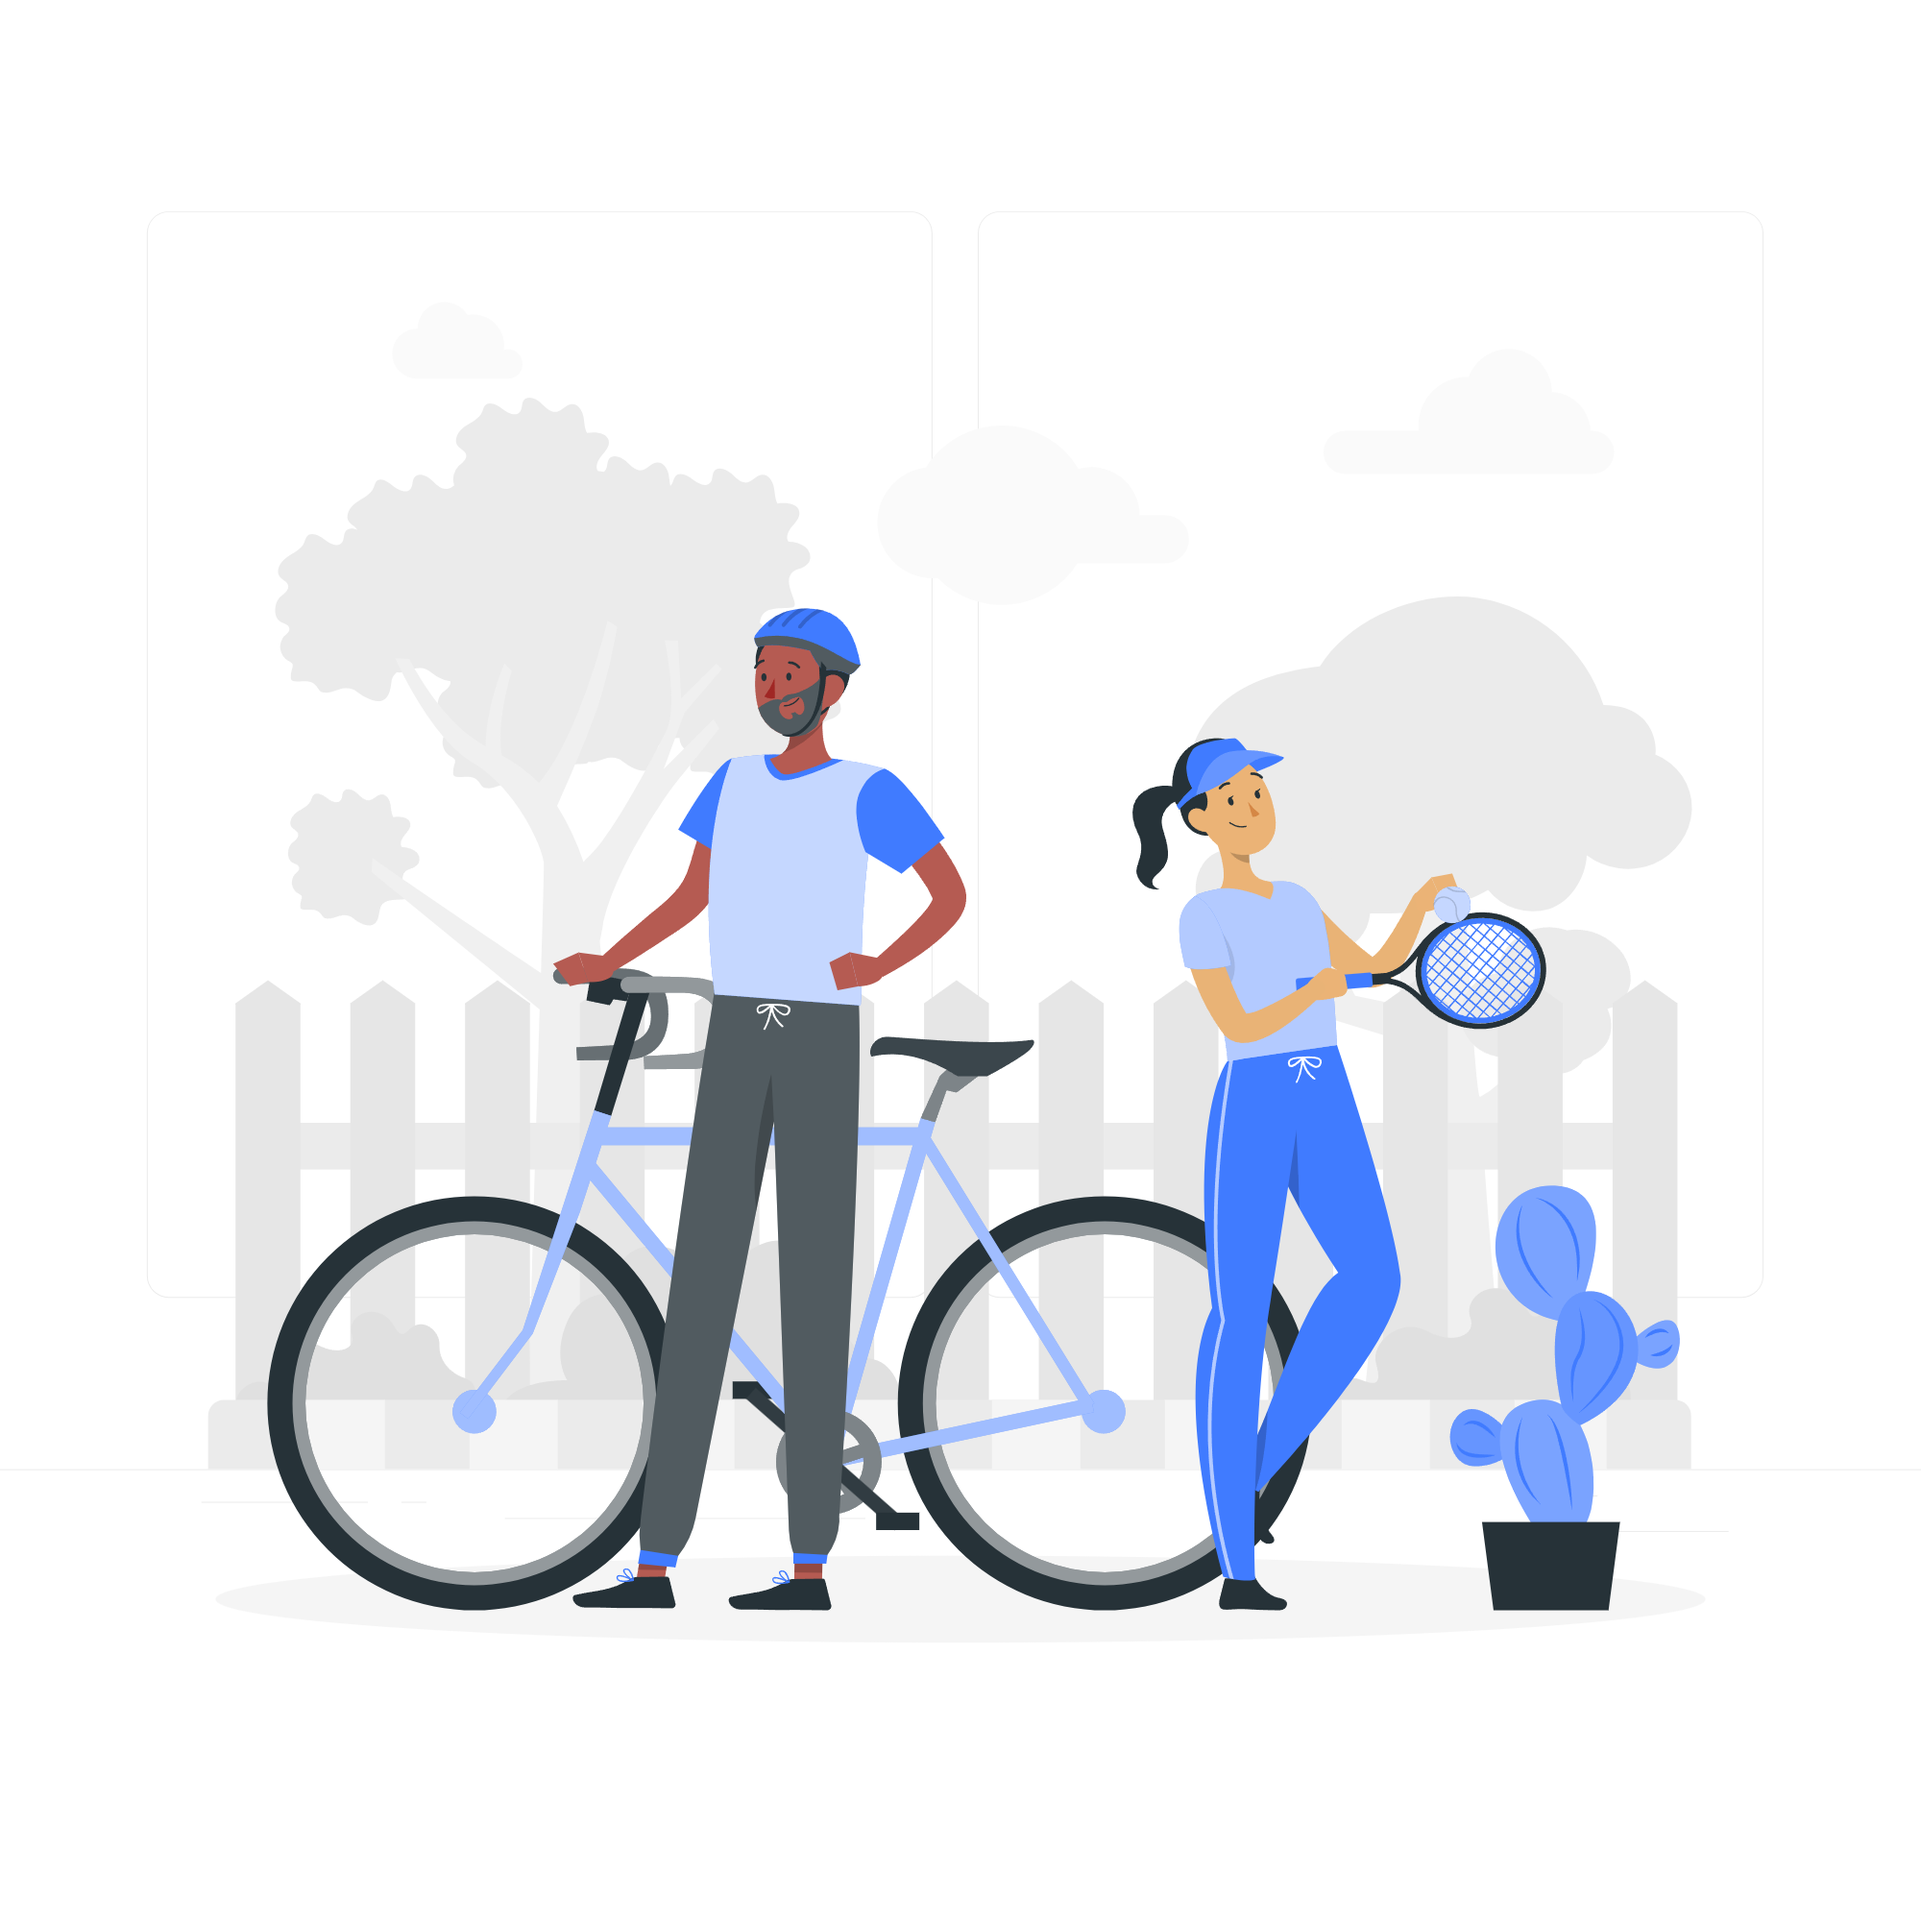
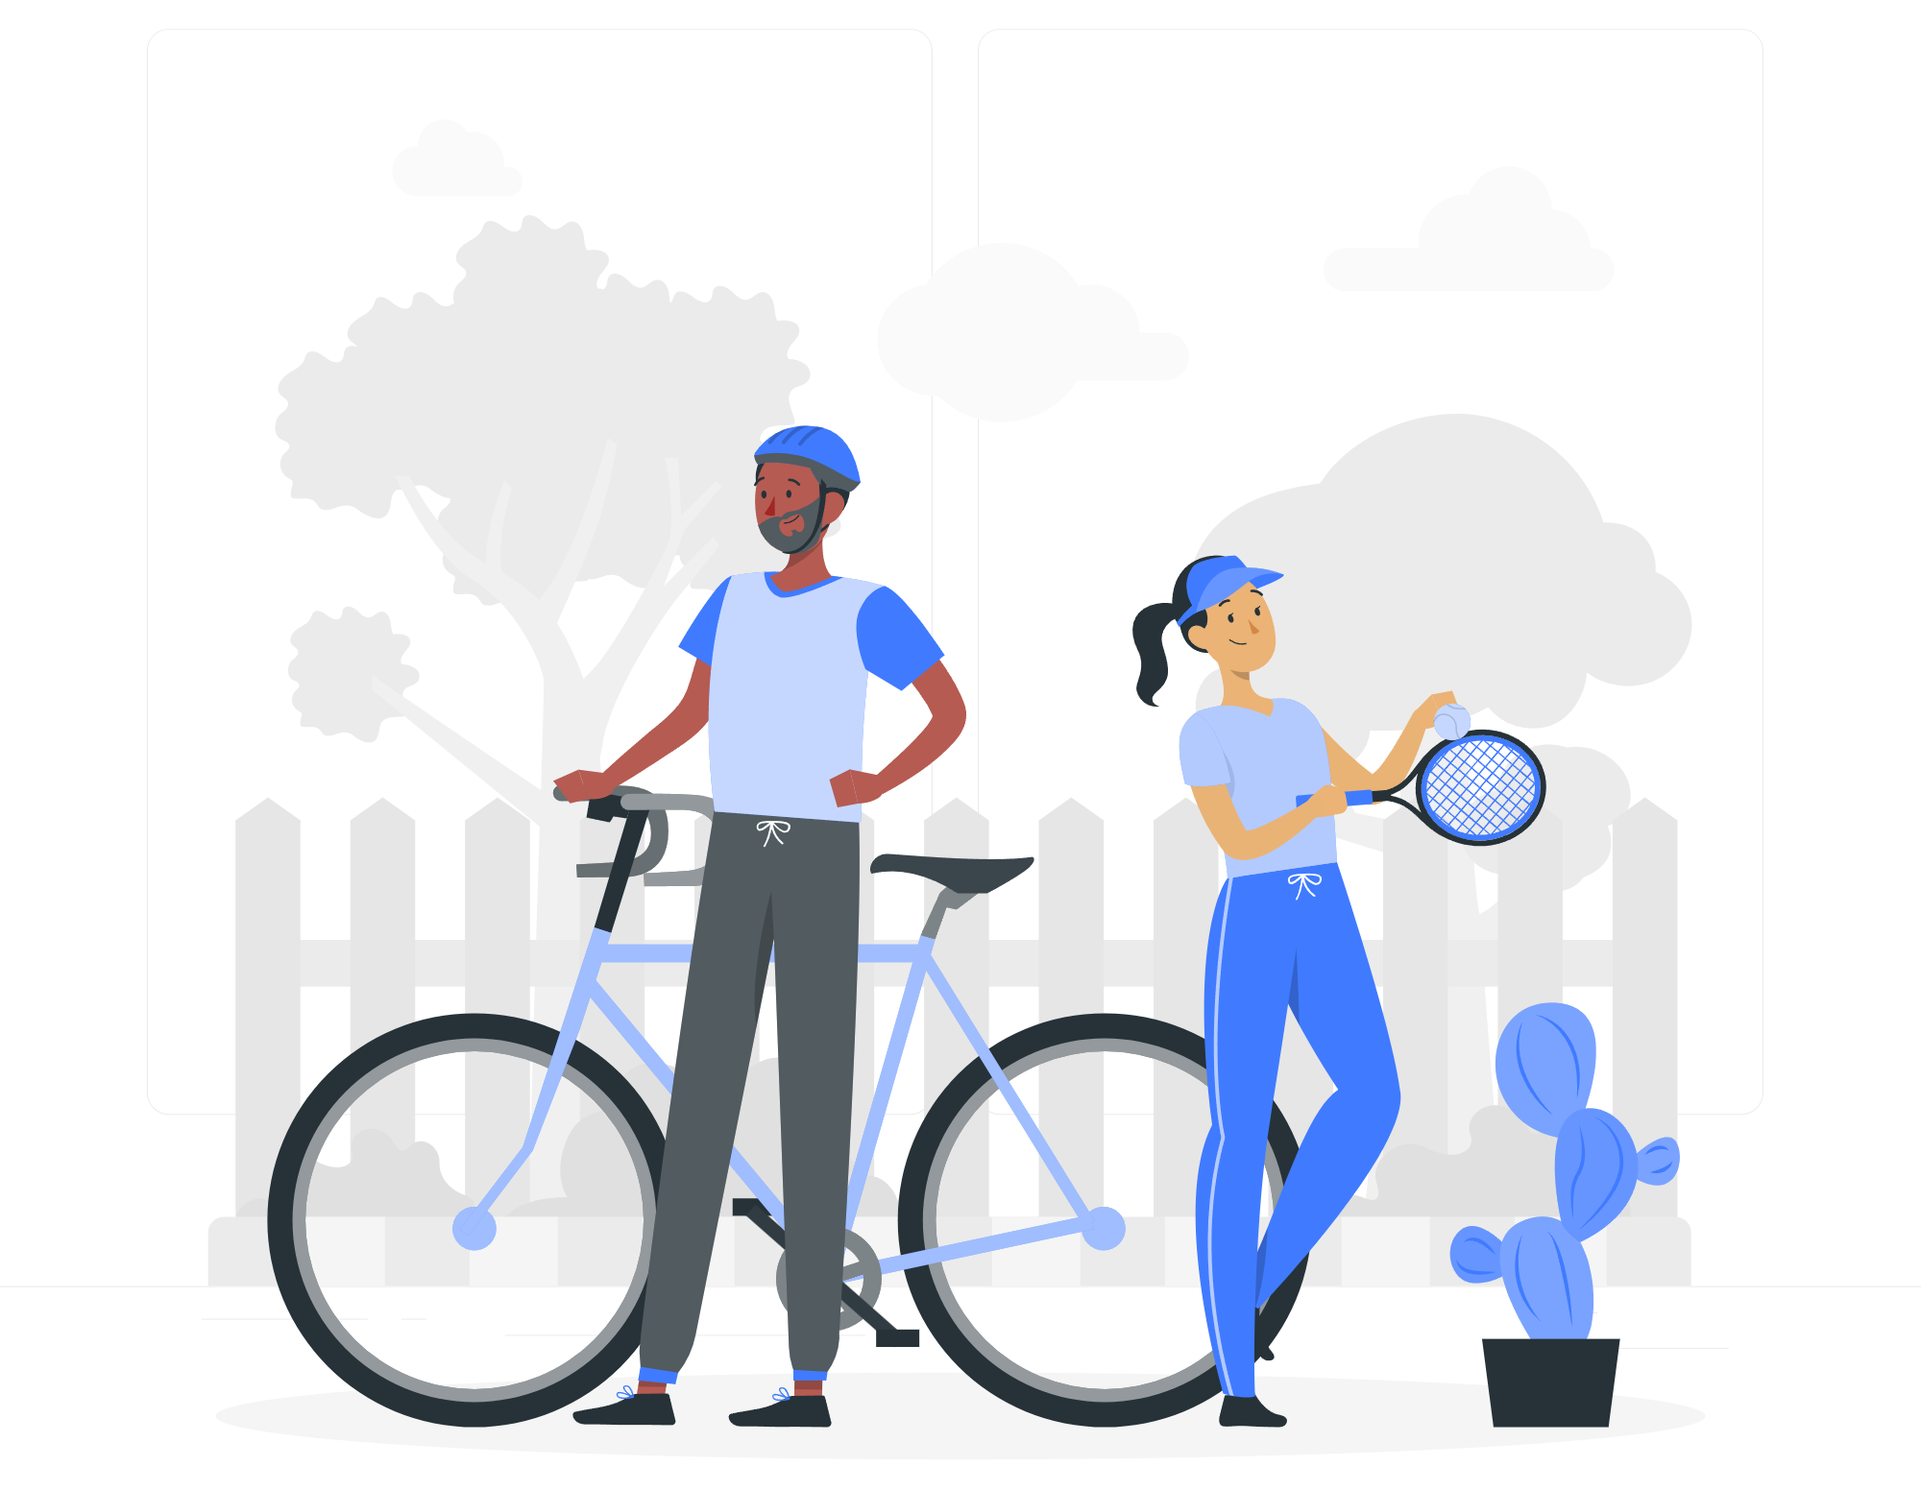
home ok

Changed region(s): [[0.124, 0.3711, 0.899, 0.9588], [0.372, 0.2784, 0.465, 0.4021], [0.837, 0.4948, 0.899, 0.5567]]

diff --git a/src/components/home/ExplanatoryBanner.jsx b/src/components/home/ExplanatoryBanner.jsx
@@ -7,53 +7,58 @@ const ExplanatoryBanner = () => {
   const [isUsageOpen, setIsUsageOpen] = useState(false);
 
   return (
-    <div className="flex flex-col md:flex-row justify-between items-center p-4">
-      {/* Image responsive */}
-      <img src={banner} alt="activity" className="w-full md:w-1/2 mb-4 md:mb-0" />
+    <div className='py-5'>
+      <h2 className="text-center font-bold text-2xl">Avec Keella, tout les monde y gagne !</h2>
+      <div className="flex flex-col md:flex-row justify-between items-center max-w-screen-lg mx-auto pb-4'">
+        {/* Image responsive */}
+        <img src={banner} alt="activity" className="w-full md:w-1/2" />
 
-      {/* Cartes responsives */}
-      <div className="w-full md:w-1/2 space-y-4">
-        {/* Carte pour les sportifs */}
-        <div className="border rounded-lg p-4">
-          <button
-            className="font-bold text-lg"
-            onClick={() => setIsEquipmentOpen(!isEquipmentOpen)}
-          >
-            Pour les sportifs
-          </button>
-          {isEquipmentOpen && (
-            <div>
-              <p className="mt-2">
-                En tant que sportif, profitez de la flexibilité de louer l'équipement sportif dont vous avez besoin, 
-                où que vous soyez. Parfait pour essayer de nouveaux sports ou pour des séances de sport lors de vos voyages.
-              </p>
-              <Link to="/workouts" className="button-primary-large text-white font-bold py-2 px-4 rounded block mt-4">
-                Voir les Workouts
-              </Link>
-            </div>
-          )}
-        </div>
+        {/* Cartes responsives */}
+        <div className="w-full md:w-1/2 space-y-4">
 
-        {/* Carte pour les hôtes */}
-        <div className="border rounded-lg p-4">
-          <button
-            className="font-bold text-lg"
-            onClick={() => setIsUsageOpen(!isUsageOpen)}
-          >
-            Pour les hôtes
-          </button>
-          {isUsageOpen && (
-            <div>
-              <p className="mt-2">
-                En tant que hôte, créez des activités uniques ou proposez votre matériel à la location. 
-                C'est une excellente manière de gagner un revenu supplémentaire tout en aidant les autres à découvrir de nouveaux sports.
-              </p>
-              
-              <Link to="/workouts/create" className="button-primary-large text-white font-bold py-2 px-4 rounded block mt-4">
-                Créer un Workout
-              </Link>
-            </div>
-          )}
+          
+          {/* Carte pour les sportifs */}
+          <div className="border rounded-lg p-4">
+            <button
+              className="font-bold text-lg"
+              onClick={() => setIsEquipmentOpen(!isEquipmentOpen)}
+            >
+              Pour les sportifs
+            </button>
+            {isEquipmentOpen && (
+              <div>
+                <p className="mt-2">
+                  En tant que sportif, profitez de la flexibilité de louer l'équipement sportif dont vous avez besoin, 
+                  où que vous soyez. Parfait pour essayer de nouveaux sports ou pour des séances de sport lors de vos voyages.
+                </p>
+                <Link to="/workouts" className="button-primary-large text-white font-bold py-2 px-4 rounded block mt-4">
+                  Voir les Workouts
+                </Link>
+              </div>
+            )}
+          </div>
+
+          {/* Carte pour les hôtes */}
+          <div className="border rounded-lg p-4">
+            <button
+              className="font-bold text-lg"
+              onClick={() => setIsUsageOpen(!isUsageOpen)}
+            >
+              Pour les hôtes
+            </button>
+            {isUsageOpen && (
+              <div>
+                <p className="mt-2">
+                  En tant que hôte, créez des activités uniques ou proposez votre matériel à la location. 
+                  C'est une excellente manière de gagner un revenu supplémentaire tout en aidant les autres à découvrir de nouveaux sports.
+                </p>
+                
+                <Link to="/workouts/create" className="button-primary-large text-white font-bold py-2 px-4 rounded block mt-4">
+                  Créer un Workout
+                </Link>
+              </div>
+            )}
+          </div>
         </div>
       </div>
     </div>

diff --git a/src/components/home/Hero.jsx b/src/components/home/Hero.jsx
@@ -3,15 +3,17 @@ import heroBackgroundImage from '../../assets/images/herobackgroundimage.png';
 
 const Hero = () => {
   return (
-    <div className="flex flex-col md:flex-row-reverse md:items-center">
-      <div className="md:w-1/2 flex justify-end"> 
-        <img src={heroBackgroundImage} alt="Hero Background" className="object-cover h-full w-full md:w-auto" />
-      </div>
-      <div className="md:w-1/3 flex flex-col justify-center items-center md:items-start text-center md:text-left p-4"> 
-        <h1 className="text-3xl md:text-4xl font-bold mb-4">Réservez, bougez, vivez !</h1>
-        <p className="max-w-md">
+    <div className="flex flex-col md:flex-row md:justify-between md:items-center bg-blue-500 md:h-[50vh] mb-5">
+      
+      <div className="w-full mx-auto md:w-1/3 flex flex-col items-center justify-center p-4">
+        <h1 className="text-white text-3xl md:text-7xl font-bold mb-4">Réservez, bougez, vivez !</h1>
+        <p className="max-w-md text-white">
           Découvrez et réservez la séance de sport parfaite pour votre prochaine aventure.
         </p>
+      </div>
+
+      <div className="md:w-1/2 flex justify-end bg-white h-full overflow-hidden"> 
+        <img src={heroBackgroundImage} alt="Hero Background" className="object-scale-down h-full w-full" />
       </div>
     </div>
   );
